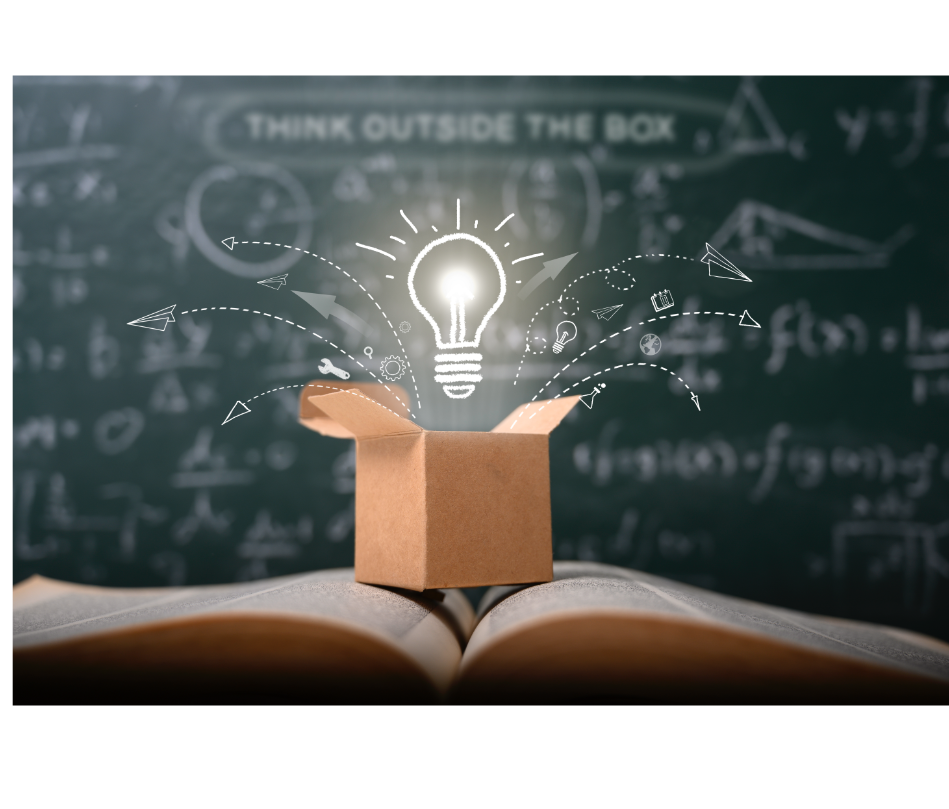
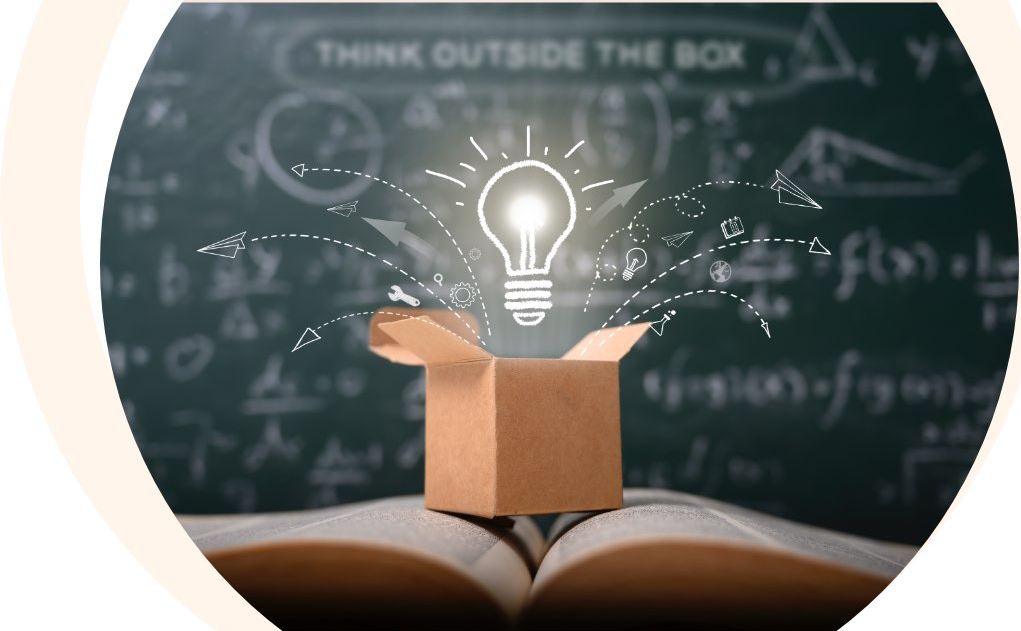
imagenes, responsive

diff --git a/resources/views/aplicacion/acerca/acerca.blade.php b/resources/views/aplicacion/acerca/acerca.blade.php
@@ -12,7 +12,7 @@
                     href="https://www.youtube.com/watch?v=hTu0a4o97dU"></a><span class="font-size-sm text-muted">Ver
                     video</span>
             </div>
-            <div class="col-md-6 py-8 bg-size-cover order-md-2 overflow-hidden" style="background-image: url('{{asset('images/acerca/image.png')}}'); border-radius: 50%;">
+            <div class="col-md-6 py-8 bg-size-cover order-md-2 overflow-hidden" style="background-image: url('{{asset('images/acerca/image.png')}}');">
             </div>
         </div>
     </section>
